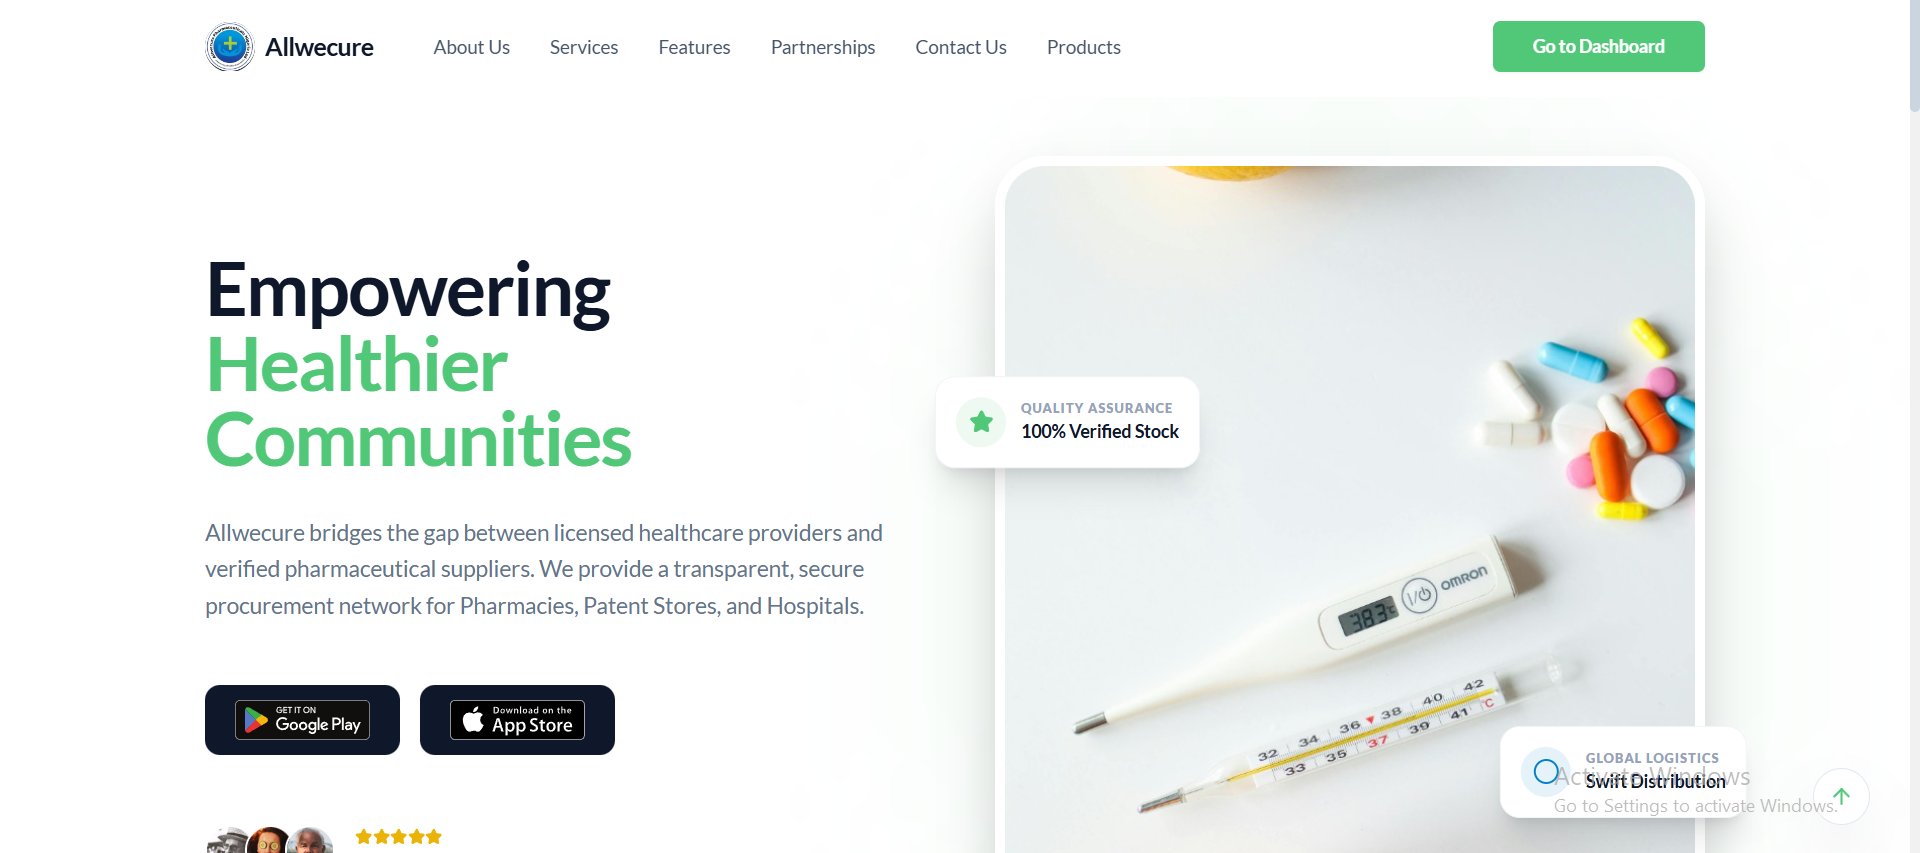
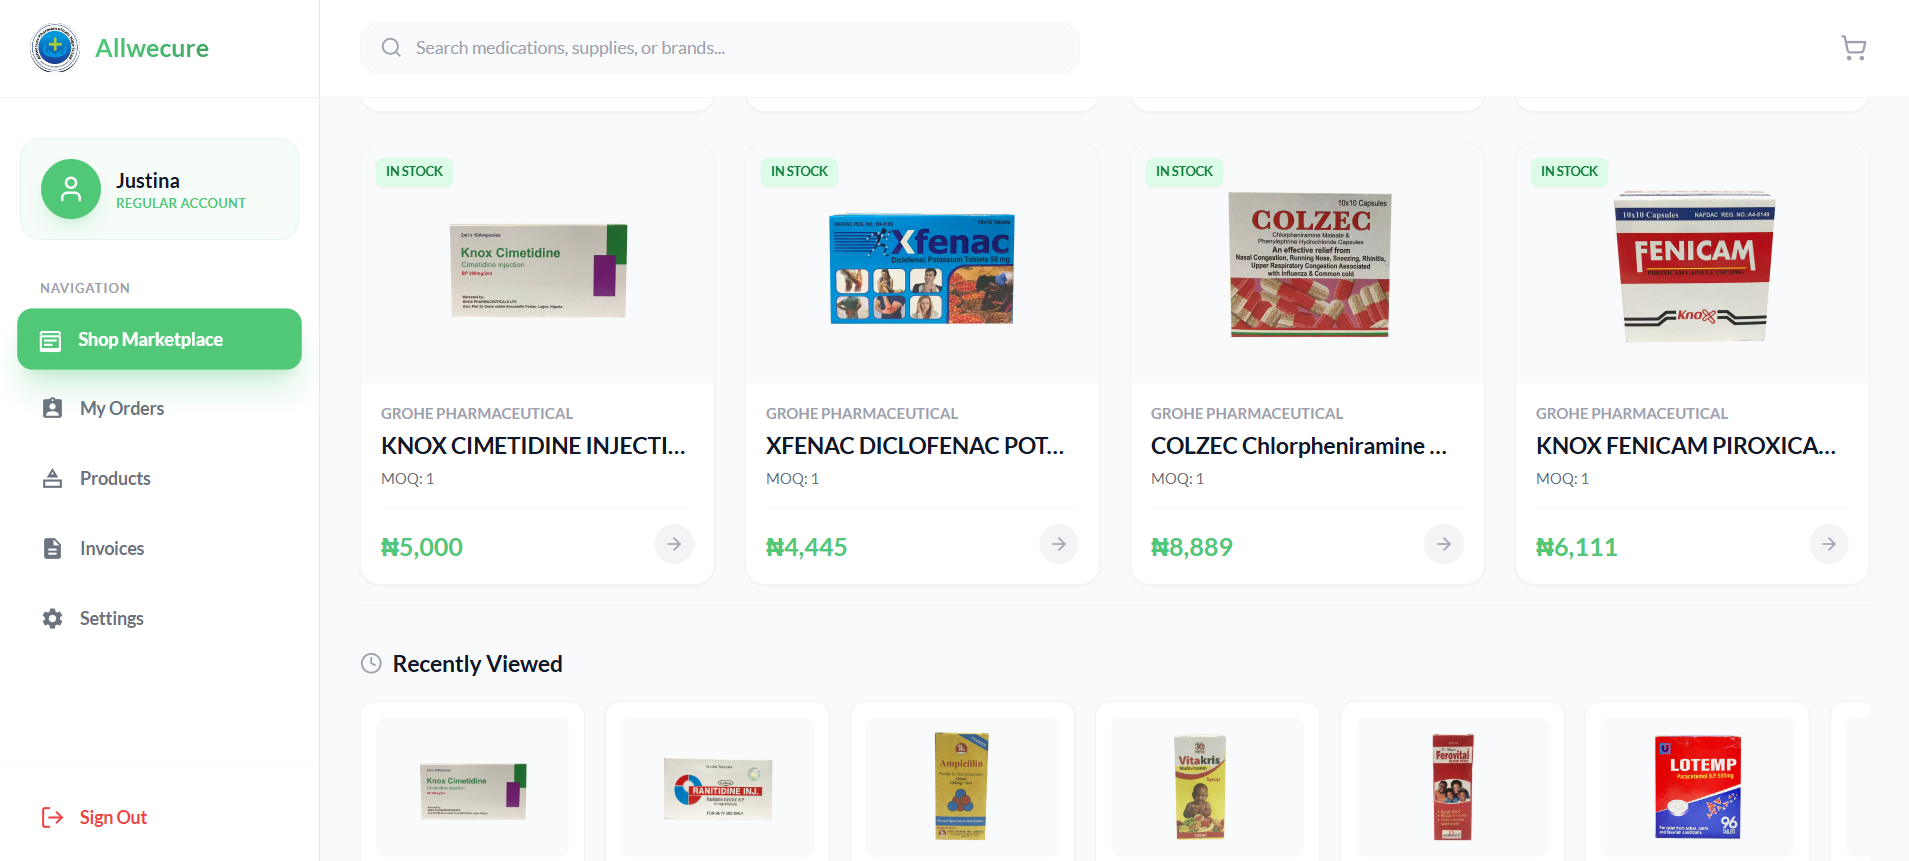
Add MellyGuard, Boardseats and the portfolio to projects
- MellyGuard landing page and Boardseats (organisations side) as new cards
- This portfolio as a project, with a link to its source
- New AllWeCure marketplace screenshot; optional imagePosition keeps wide
  screenshots anchored where the important part is

diff --git a/app/data/content.ts b/app/data/content.ts
@@ -24,6 +24,9 @@ export interface Project {
   blurb: string
   /** Screenshot path, when one exists */
   image?: string
+  /** CSS object-position for the screenshot when a centred crop loses the
+   *  important part (e.g. 'left' keeps a sidebar and logo in frame) */
+  imagePosition?: string
   demoUrl?: string
   githubUrl?: string
   /** Key technologies, shown on cards that have no screenshot */
@@ -410,6 +413,7 @@ export const projects: Project[] = [
     blurb:
       'A procurement network connecting licensed healthcare providers with verified pharmaceutical suppliers.',
     image: '/images/allwecure.png',
+    imagePosition: 'left',
     demoUrl: 'https://allwecure.com',
     githubUrl: 'https://github.com/Justinacodes',
     featured: true,
@@ -424,6 +428,28 @@ export const projects: Project[] = [
     image: '/images/stuvo.png',
     demoUrl: 'https://stuvo.io/',
     githubUrl: 'https://github.com/Justinacodes',
+  },
+  {
+    id: 'boardseats',
+    client: 'Boardseats',
+    tags: 'Frontend, Organisations portal',
+    period: 'Live',
+    title: 'Board recruitment platform',
+    blurb:
+      'Contributed to the organisations side of Boardseats, a platform connecting leading organisations with pre-verified, board-ready candidates.',
+    image: '/images/boardseats.png',
+    demoUrl: 'https://boardseats.io',
+  },
+  {
+    id: 'portfolio',
+    client: 'Personal',
+    tags: 'Next.js, TypeScript, Tailwind, FastAPI',
+    period: 'Live',
+    title: 'My portfolio',
+    blurb: "My portfolio, with an AI assistant that answers questions about my work, streamed from a FastAPI and Groq backend.",
+    image: '/images/portfolio.png',
+    demoUrl: 'https://www.justinaominisan.com.ng',
+    githubUrl: 'https://github.com/Justinacodes/portfolio-justina',
   },
    {
     id: 'emmaplus',
@@ -461,16 +487,17 @@ export const projects: Project[] = [
     demoUrl: 'https://highklazz.com.ng',
   },
  
-  {
-    id: 'movrev',
-    client: 'Mov-Rev',
-    tags: 'React, JavaScript, CSS',
+{
+    id: 'mellyguard',
+    client: 'MellyGuard',
+    tags: 'Next.js, React',
     period: 'Live',
-    title: 'Movie reviews app',
-    blurb: 'Browse reviews and ratings for the latest movies.',
-    image: '/images/movrev.png',
-    demoUrl: 'https://movie-rev-psi.vercel.app',
-    githubUrl: 'https://github.com/Justinacodes',
+    title: 'Product landing page',
+    blurb:
+      'The landing page for MellyGuard, a financial crime platform unifying KYC, fraud, AML and compliance. I also work on the platform itself, including AI Studio.',
+    image: '/images/mellyguard.png',
+    imagePosition: 'left',
+    demoUrl: 'https://mellyguard.ai',
   },
   {
     id: 'revocube',
